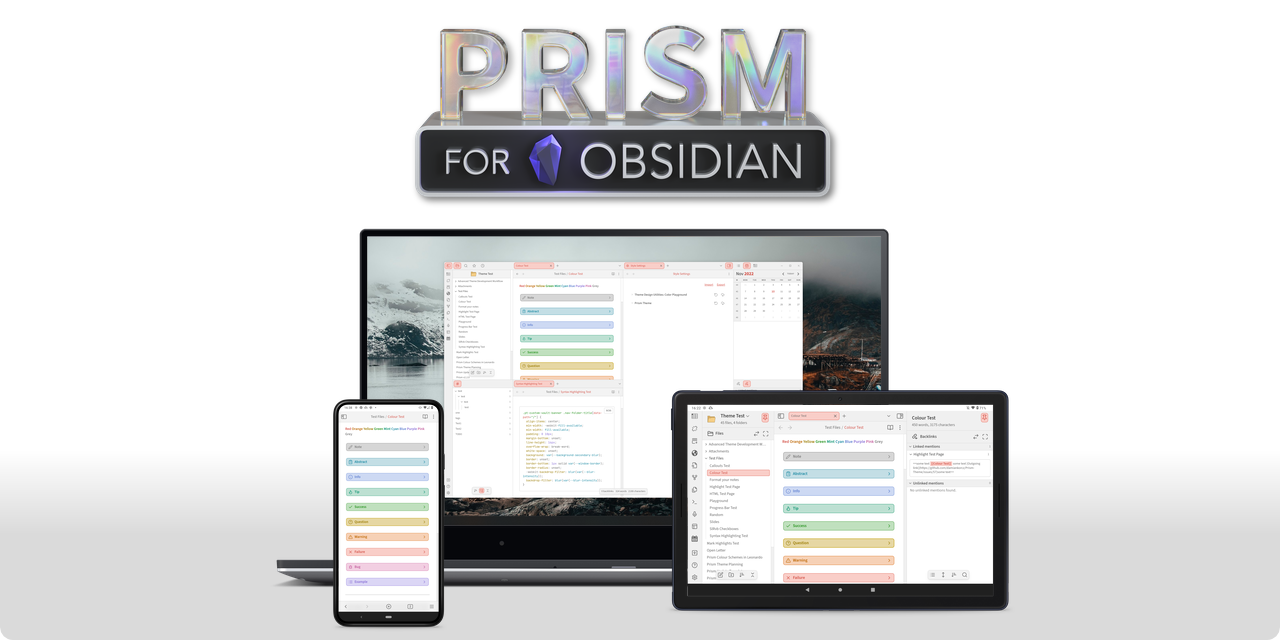
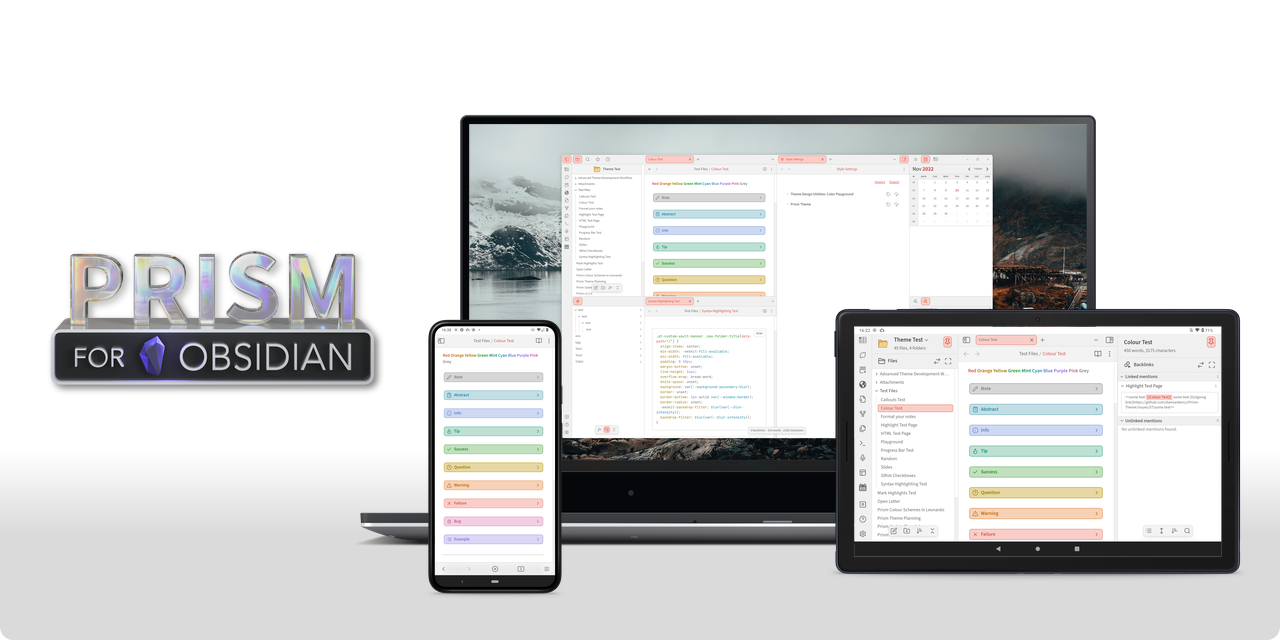
Updated README.md and Social Preview asset

diff --git a/README.md b/README.md
@@ -1,9 +1,9 @@
-![Main Screenshot](https://raw.githubusercontent.com/damiankorcz/Prism-Theme/3.0.0/assets/screenshots/Github%20Hero%20Image.png)
+![Main Screenshot](https://raw.githubusercontent.com/damiankorcz/Prism-Theme/main/assets/screenshots/Github%20Hero%20Image.png)
 
 <div align="center">
[5 lines of base64/hex data omitted]
 	<br />
 	<br />
@@ -15,25 +15,25 @@
 # ✨ Key Features 
 ## Complete Platform Support
 
-![Platforms](https://raw.githubusercontent.com/damiankorcz/Prism-Theme/3.0.0/assets/screenshots/Platforms.png)
+![Platforms](https://raw.githubusercontent.com/damiankorcz/Prism-Theme/main/assets/screenshots/Platforms.png)
 
 Prism is designed to work across all platforms and operating systems Obsidian is available on (Desktop, Phone and Tablet).
 
 ## 4 Light Colour Schemes
 
-![Light Colour Schemes](https://raw.githubusercontent.com/damiankorcz/Prism-Theme/3.0.0/assets/screenshots/Light%20Colour%20Schemes.png)
+![Light Colour Schemes](https://raw.githubusercontent.com/damiankorcz/Prism-Theme/main/assets/screenshots/Light%20Colour%20Schemes.png)
 
 ***(Front to Back: Swan, Latte, Periwinkle and Pistachio)***
 
 ## 4 Dark Colour Schemes
 
-![Dark Colour Schemes](https://raw.githubusercontent.com/damiankorcz/Prism-Theme/3.0.0/assets/screenshots/Dark%20Colour%20Schemes.png)
+![Dark Colour Schemes](https://raw.githubusercontent.com/damiankorcz/Prism-Theme/main/assets/screenshots/Dark%20Colour%20Schemes.png)
 
 ***(Front to Back: Raven, Mocha, Indigo and Pine)***
 
 ## 4 Accent Styles and 10 Preset Colours + Option for Custom Colours
 
-![Accent Styles and Colours](https://raw.githubusercontent.com/damiankorcz/Prism-Theme/3.0.0/assets/screenshots/Accent%20Styles%20and%20Colours.png)
+![Accent Styles and Colours](https://raw.githubusercontent.com/damiankorcz/Prism-Theme/main/assets/screenshots/Accent%20Styles%20and%20Colours.png)
 
 ***(Top Row: Accent Styles, Last 2 Rows: Available Colours + Custom Option)***
 
@@ -43,14 +43,14 @@ The Highlight System comes with 4 different styles and an option to change the t
 Colors available = Red, Orange, Yellow, Green, Mint, Cyan, Blue, Purple, Pink and Grey.<br />
 *Usage Example: `<mark class="red">Your Red text</mark>`*
 
-![Mark Highlight Styles and Colours](https://raw.githubusercontent.com/damiankorcz/Prism-Theme/3.0.0/assets/screenshots/Mark%20Highlight%20Styles%20and%20Colours.png)
+![Mark Highlight Styles and Colours](https://raw.githubusercontent.com/damiankorcz/Prism-Theme/main/assets/screenshots/Mark%20Highlight%20Styles%20and%20Colours.png)
 
 ***(Start to Finish: None, Border, Filled, Border & Filled, Text Colour option)***
 
 ## Customisation Options
 Options for position, alignment, modification of various elements and plenty more available via the Style Settings plugin!
 
-![Style Settings](https://raw.githubusercontent.com/damiankorcz/Prism-Theme/3.0.0/assets/screenshots/Style%20Settings.png)
+![Style Settings](https://raw.githubusercontent.com/damiankorcz/Prism-Theme/main/assets/screenshots/Style%20Settings.png)
 
 
 # 🚀 Getting Started
@@ -73,7 +73,7 @@ I highly recommend for you to go through the options available in the Style Sett
 
 
 # 🧩 Supported Plugins
-Checkout the full list in the [**Supported Plugins**](https://github.com/damiankorcz/Obsidian-Prism#-Supported-Plugins) section of the Wiki. These plugins have been checked to work correctly and might have additional settings in Style Settings.
+Checkout the full list in the [**Supported Plugins**](https://github.com/damiankorcz/Prism-Theme/wiki/Supported-Plugins) section of the Wiki. These plugins have been checked to work correctly and might have additional settings in Style Settings.
 
 If you have any issues with the plugins mentioned above or would like another plugin to be supported by the theme [**Submit an Issue**](https://github.com/damiankorcz/Obsidian-Prism/issues) regarding it.
 
@@ -83,9 +83,7 @@ Theme features which you can import as snippets into Obsidian are located in the
 
 
 # 📖 Wiki
-The theme has a Wiki which includes additional detailed descriptions for theme specific features and customisation options.
-
-This can be found here: [**Wiki**](https://github.com/damiankorcz/Prism-Theme/wiki).
+The theme has a [**Wiki**](https://github.com/damiankorcz/Prism-Theme/wiki) which includes additional detailed descriptions for theme specific features and customisation options.
 
 
 # 🛠 Contributing
@@ -123,6 +121,6 @@ The Theme contains Base64 embedded versions of the following fonts:
 - [**Source Sans**](https://github.com/adobe-fonts/source-sans) - Distributed under the [**SIL Open Font License 1.1**](https://github.com/adobe-fonts/source-sans/blob/release/LICENSE.md)
 - [**JetBrains Mono**](https://github.com/JetBrains/JetBrainsMono) - Distributed under the [**SIL Open Font License 1.1**](https://github.com/JetBrains/JetBrainsMono/blob/master/OFL.txt)
 
-The default Vault Banner Icon `Opened Folder icon` has been sourced from [**Icons8**](https://icons8.com/icon/21094/opened-folder)
+The default Vault Banner Icon `Opened Folder icon` has been sourced from [**Icons8**](https://icons8.com/icon/21094/opened-folder).
 
 The Theme code is distributed under the MIT License. See [**LICENCE**](https://github.com/damiankorcz/Obsidian-Prism/blob/main/LICENSE) for more information.
